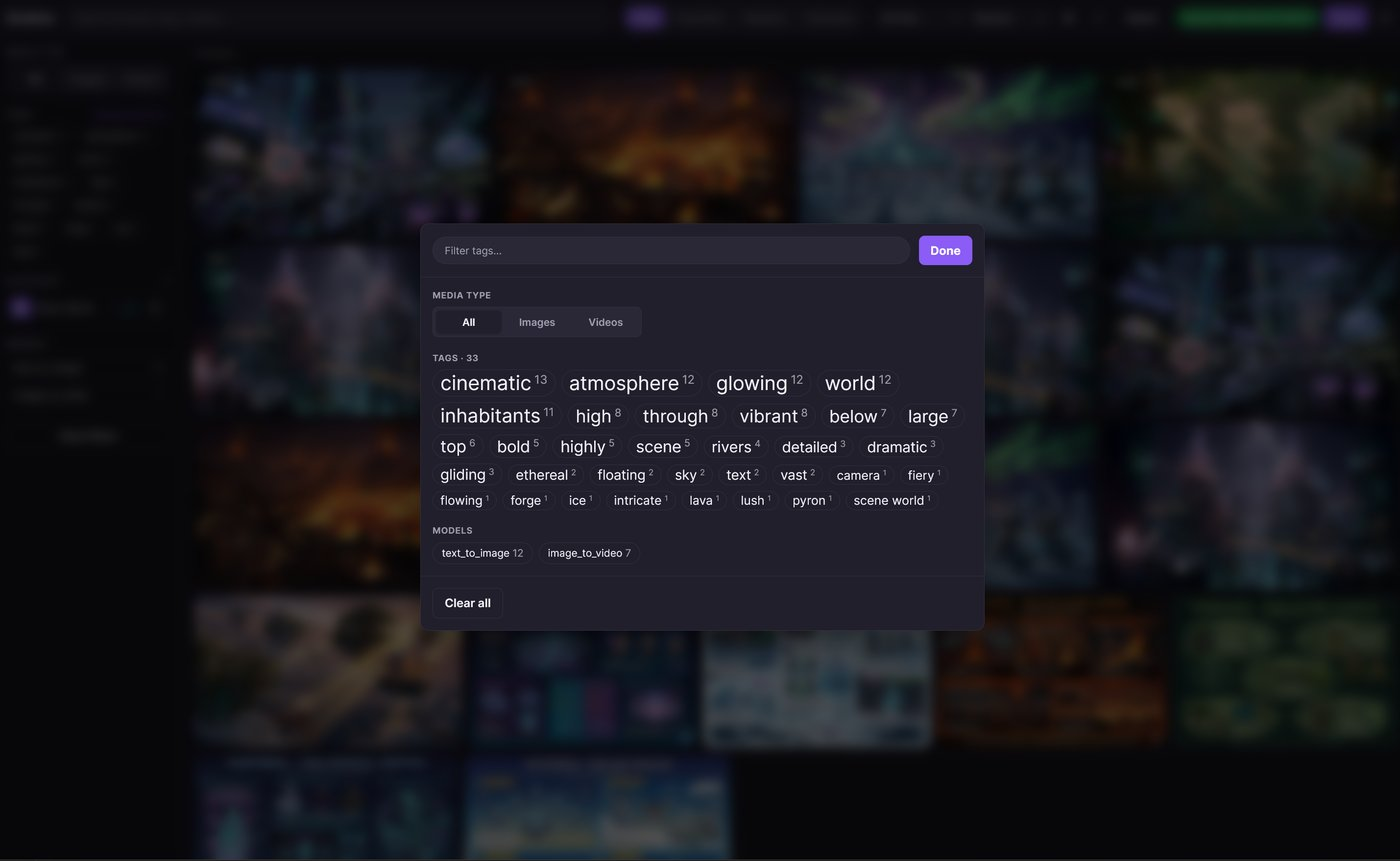
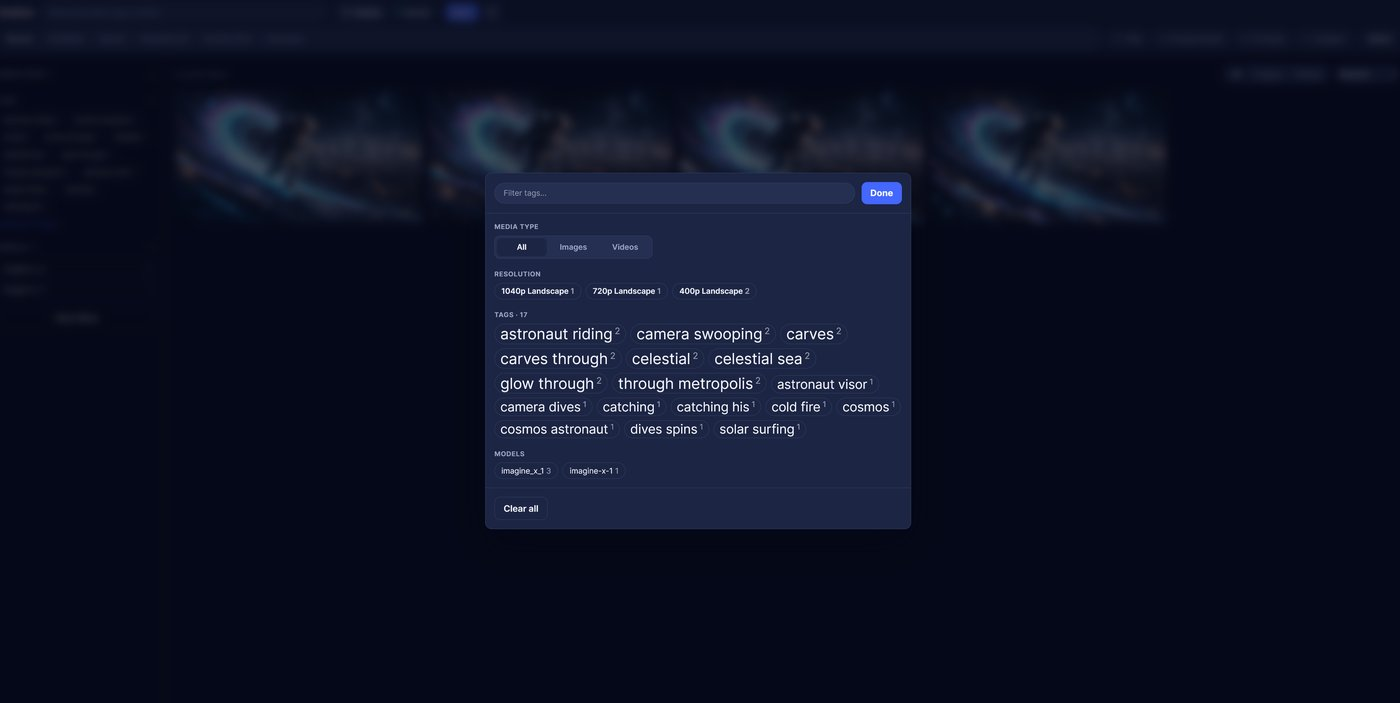
docs: refresh README screenshot gallery with current UI
Replace the screenshots with new captures resized to the 1400px-wide JPG
standard, and expand the gallery to 10 tiles (5x2): Library, Collections,
Lightbox player, Tag & filter browser, Prompt Studio, Config, Grok Imagine,
Beat Montage, Multi-select, and Login. Adds Collections, Grok Imagine, and
Multi-select; drops the stale Playlist tile (no current capture).

diff --git a/README.md b/README.md
@@ -10,15 +10,17 @@ Grokive is a free, self-hosted archiver that keeps your Grok Imagine library ent
 
 ## Screenshots
 
-| Library | Lightbox player |
+| Library | Collections |
 | :---: | :---: |
-| [![The justified photo grid with filters and playlists](screenshots/web/main.jpg)](screenshots/web/main.jpg) | [![The lightbox video player with prompt and actions](screenshots/web/player.jpg)](screenshots/web/player.jpg) |
-| **Tag browser** | **Playlist editor** |
-| [![The searchable tag-cloud modal](screenshots/web/tags.jpg)](screenshots/web/tags.jpg) | [![The playlist editor with drag-to-reorder, play, and export](screenshots/web/playlist.jpg)](screenshots/web/playlist.jpg) |
-| **Config** | **Login** |
-| [![The Config panel: appearance, Grok account cURL, and Whisper subtitles](screenshots/web/config.jpg)](screenshots/web/config.jpg) | [![The themed login screen](screenshots/web/login.jpg)](screenshots/web/login.jpg) |
-| **Prompt Studio** | **Beat Montage** |
-| [![The Prompt Studio two-stage composer with suggestion chips](screenshots/web/studio.jpg)](screenshots/web/studio.jpg) | [![The Song Beat Montage panel with style, cut-tightness, and aspect controls](screenshots/web/montage.jpg)](screenshots/web/montage.jpg) |
+| [![The justified media grid with facet filters and resolution badges](screenshots/web/main.jpg)](screenshots/web/main.jpg) | [![Collections and playlists in the Library](screenshots/web/collections.jpg)](screenshots/web/collections.jpg) |
+| **Lightbox player** | **Tag & filter browser** |
+| [![The lightbox player with prompt, favorite, and copy-prompt actions](screenshots/web/player.jpg)](screenshots/web/player.jpg) | [![The searchable tag, resolution, and model filter modal](screenshots/web/tags.jpg)](screenshots/web/tags.jpg) |
+| **Prompt Studio** | **Config** |
+| [![Prompt Studio — the two-stage composer with mined themes and personas](screenshots/web/studio.jpg)](screenshots/web/studio.jpg) | [![The Config panel: appearance, Grok account, AI providers, and Autonomous Mode](screenshots/web/config.jpg)](screenshots/web/config.jpg) |
+| **Grok Imagine** | **Beat Montage** |
+| [![Grok Imagine — generate new images and video in-app](screenshots/web/imagine.jpg)](screenshots/web/imagine.jpg) | [![Beat-synced Song Montage built from selected videos](screenshots/web/montage.jpg)](screenshots/web/montage.jpg) |
+| **Multi-select** | **Login** |
+| [![Multi-select mode with bulk actions: play, collection, archive, playlist, export, montage, delete](screenshots/web/multiselect.jpg)](screenshots/web/multiselect.jpg) | [![The themed sign-in screen](screenshots/web/login.jpg)](screenshots/web/login.jpg) |
 
 ## Contents
 
